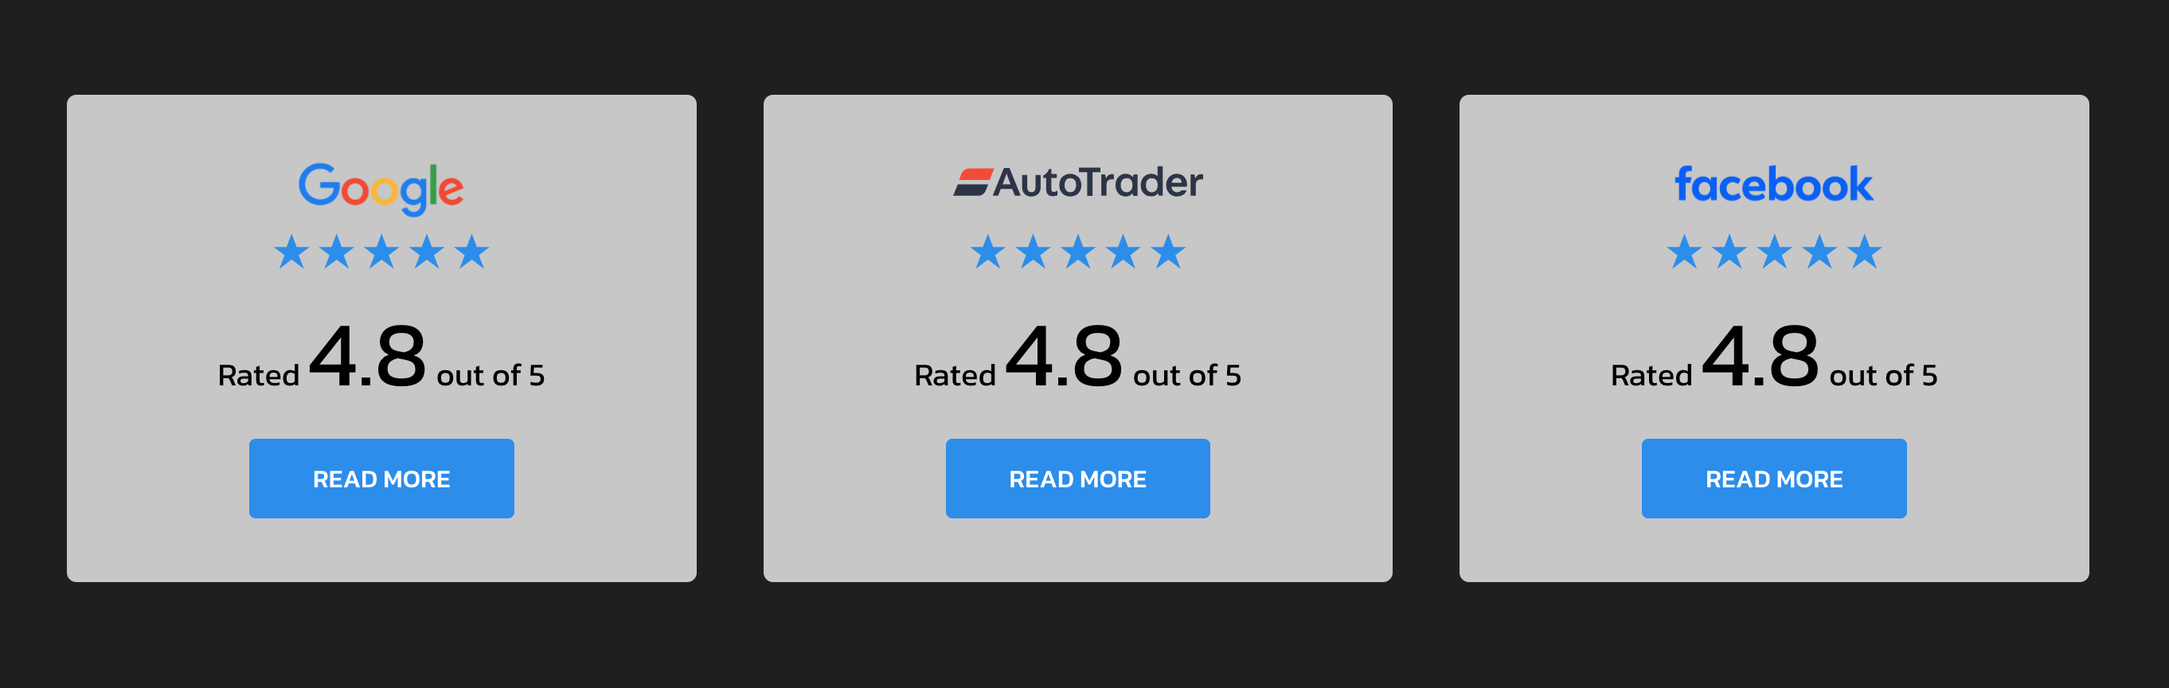
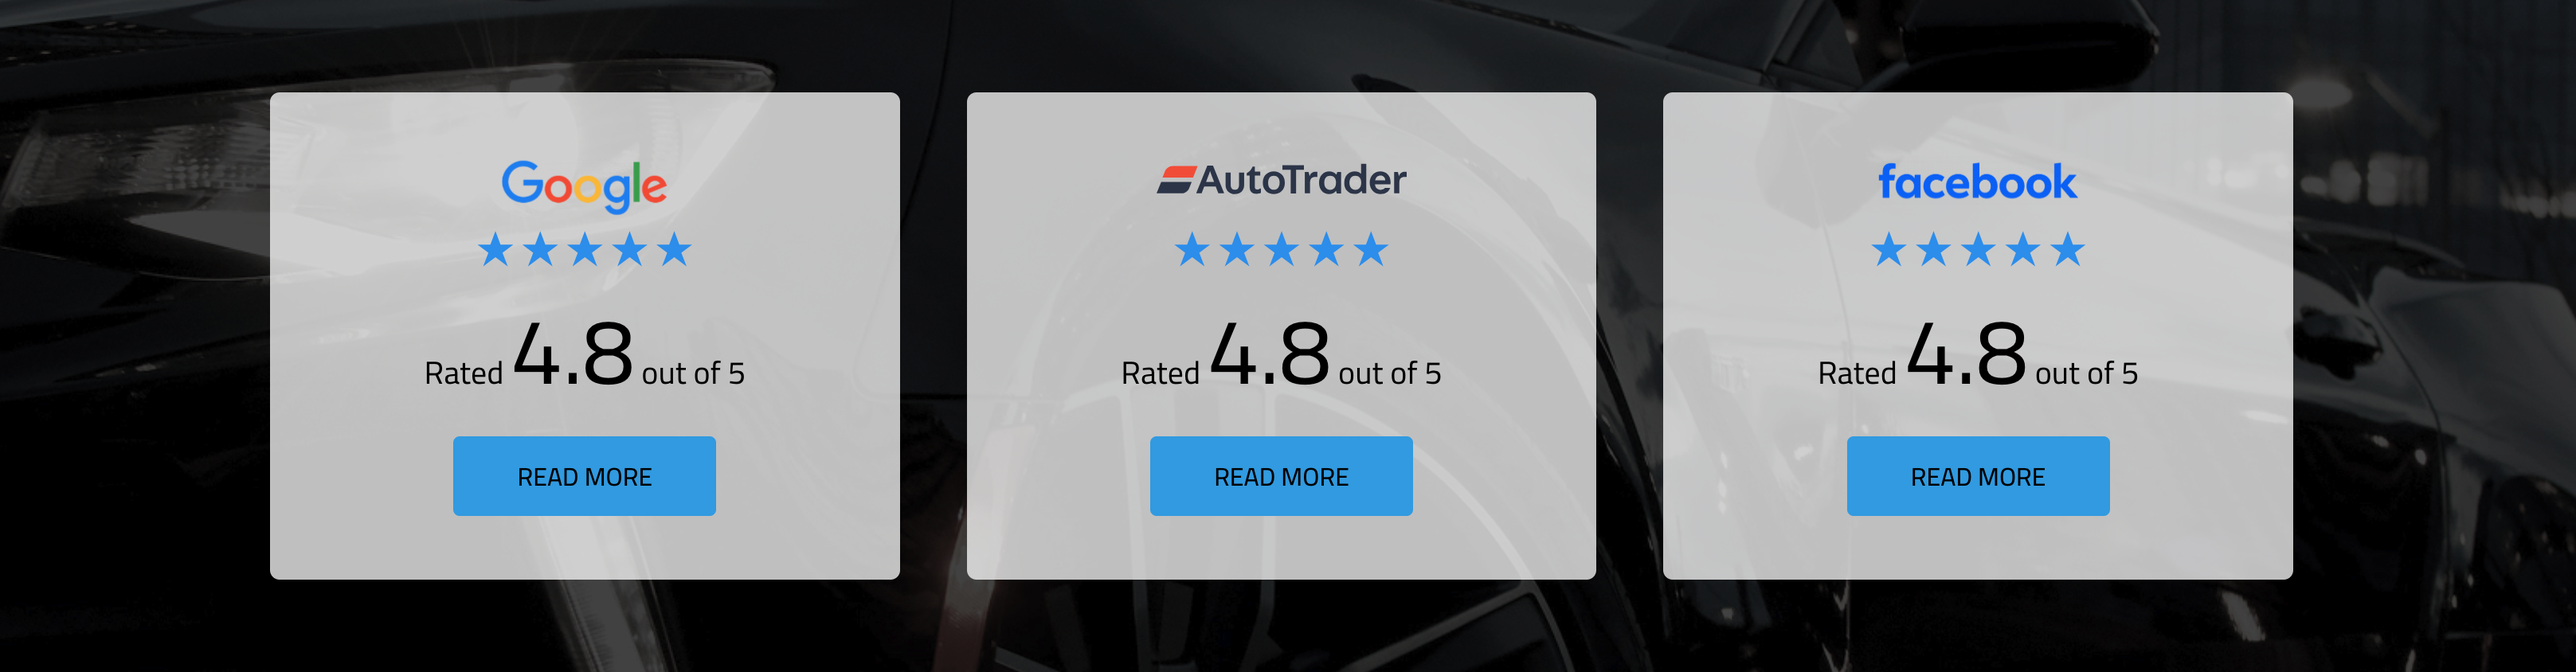
OB-23422 Reviews texts

diff --git a/src/codeSnippets.jsx b/src/codeSnippets.jsx
@@ -1371,6 +1371,43 @@ background: YOUR_COLOUR;
     {
       id: "style-50",
       image: "/assets/style50.png",
+      category: "reviews",
+      codeblock: [
+        {
+          code: `          <div class="additional-style additional-style-50 clearfix">
+            <div class="additional-style-wrap">
+                <div class="additional-style-half">
+                  <div class="additional-style-review">
+                    <div class="additional-style-text">
+                      <div class="stars">&#9733;&#9733;&#9733;&#9733;&#9733;</div>
+                        <p>&ldquo;Our fantastic team are passionate about delivering outstanding customer experiences and our mission is to ensure that you love both the FN car buying experience and the car&rdquo;</p>
+                        <p class="name">Numan, CEO FN Motors</p>
+                    </div></div>
+                </div>
+                <div class="additional-style-half">
+                  <h3>What People Think About Us</h3>
+                  <a href="/reviews/" class="button">Read More</a>
+                  <div class="rating-wrap">
+                    <div class="rating">
+                        <span>4.8</span>
+                          <div class="stars">&#9733;&#9733;&#9733;&#9733;&#9733;</div>
+                    </div>
+                    <div class="images">
+                      <img src="https://img.spidersnet.co.uk/code-snippets/award-placeholder.png">
+                      <img src="https://img.spidersnet.co.uk/code-snippets/award-placeholder.png">
+                      <img src="https://img.spidersnet.co.uk/code-snippets/award-placeholder.png">
+                    </div>
+                  </div>
+              </div>
+            </div>
+          </div>
+      `
+        }
+      ]
+    },
+    {
+      id: "style-51",
+      image: "/assets/style51.png",
       category: "blocks",
       codeblock: [
         {
@@ -1448,6 +1485,114 @@ background: YOUR_COLOUR;
                   color: TEXT_COLOUR;
                 }
         `
+        }
+      ]
+    },
+     {
+      id: "style-52",
+      image: "/assets/style52.png",
+      category: "reviews",
+      codeblock: [
+        {
+          code: `<div class="additional-style additional-style-52 clearfix">
+            <div class="additional-style-wrap">
+              <div class="additional-style-title">
+                <h3>See What Our Customers Are Saying</h3>
+                <a href="/reviews/" class="read-reviews">Read Reviews</a>
+              </div>
+            </div>
+            <div class="additional-style-wrap">
+                <div class="additional-style-half">
+                  <div class="additional-style-review">
+                    <div class="additional-style-text">
+                      <div class="stars">&#9733;&#9733;&#9733;&#9733;&#9733;</div>
+                        <p>&ldquo;Our fantastic team are passionate about delivering outstanding customer experiences and our mission is to ensure that you love both the FN car buying experience and the car&rdquo;</p>
+                        <p class="name">Numan, CEO FN Motors</p>
+                    </div></div>
+                </div>
+                <div class="additional-style-half">
+                  <div class="additional-style-review">
+                    <div class="additional-style-text">
+                      <div class="stars">&#9733;&#9733;&#9733;&#9733;&#9733;</div>
+                        <p>&ldquo;Our fantastic team are passionate about delivering outstanding customer experiences and our mission is to ensure that you love both the FN car buying experience and the car&rdquo;</p>
+                        <p class="name">Numan, CEO FN Motors</p>
+                    </div></div>
+                </div>
+            </div>
+          </div>
+      `
+        },
+        {
+        title: 'Change background colour',
+          content: 'Custom CSS',
+          code: `.additional-style.additional-style-52 {
+    background-color: BACKGROUND_COLOUR;
+}
+      `
+        }
+      ]
+    },
+    {
+      id: "style-53",
+      image: "/assets/style53.png",
+      category: "reviews",
+      codeblock: [
+        {
+          code: ` <div class="additional-style additional-style-53 clearfix">
+            <div class="additional-style-wrap">
+
+                <div class="additional-style-half">
+         
+                    <div class="rating">
+                        <span>4.8</span>
+                          <div class="stars">&#9733;&#9733;&#9733;&#9733;&#9733;</div>
+                    </div>
+                    <div class="images">
+                      <img src="https://img.spidersnet.co.uk/code-snippets/award-placeholder.png">
+                      <img src="https://img.spidersnet.co.uk/code-snippets/award-placeholder.png">
+                      <img src="https://img.spidersnet.co.uk/code-snippets/award-placeholder.png">
+                    </div>
+           
+              </div>
+              <div class="additional-style-half">
+                <div class="additional-style-review">
+                  <div class="additional-style-text">
+                    <div class="stars">&#9733;&#9733;&#9733;&#9733;&#9733;</div>
+                    <h3>Customer Reviews</h3>
+                      <p>&ldquo;Our fantastic team are passionate about delivering outstanding customer experiences and our mission is to ensure that you love both the FN car buying experience and the car&rdquo;</p>
+                      <p class="name">Numan, CEO FN Motors</p>
+                      <a href="/reviews/" class="button">Read More</a>
+                  </div></div>
+              </div>
+            </div>
+          </div>
+      `
+        }
+      ]
+    },
+    {
+      id: "style-54",
+      image: "/assets/style54.png",
+      category: "reviews",
+      codeblock: [
+        {
+          code: `          <div class="additional-style additional-style-54 clearfix">
+            <div class="additional-style-wrap">
+
+                <div class="additional-style-inner">
+         
+                  <div class="stars">&#9733;&#9733;&#9733;&#9733;&#9733;</div>
+                  <h3>Customer Reviews</h3>
+                  <p>See what our customers have to say...</p>
+                  <div class="logos">
+                    <a href="PUT_LINK_HERE" target="_blank"><img src="https://img.spidersnet.co.uk/code-snippets/google-button.svg"></a>
+                    <a href="PUT_LINK_HERE" target="_blank"><img src="https://img.spidersnet.co.uk/code-snippets/autotrader-button.svg"></a>
+                    <a href="PUT_LINK_HERE" target="_blank"><img src="https://img.spidersnet.co.uk/code-snippets/facebook-button.svg"></a>
+                  </div>
+              </div>
+            </div>
+          </div>
+      `
         }
       ]
     },
